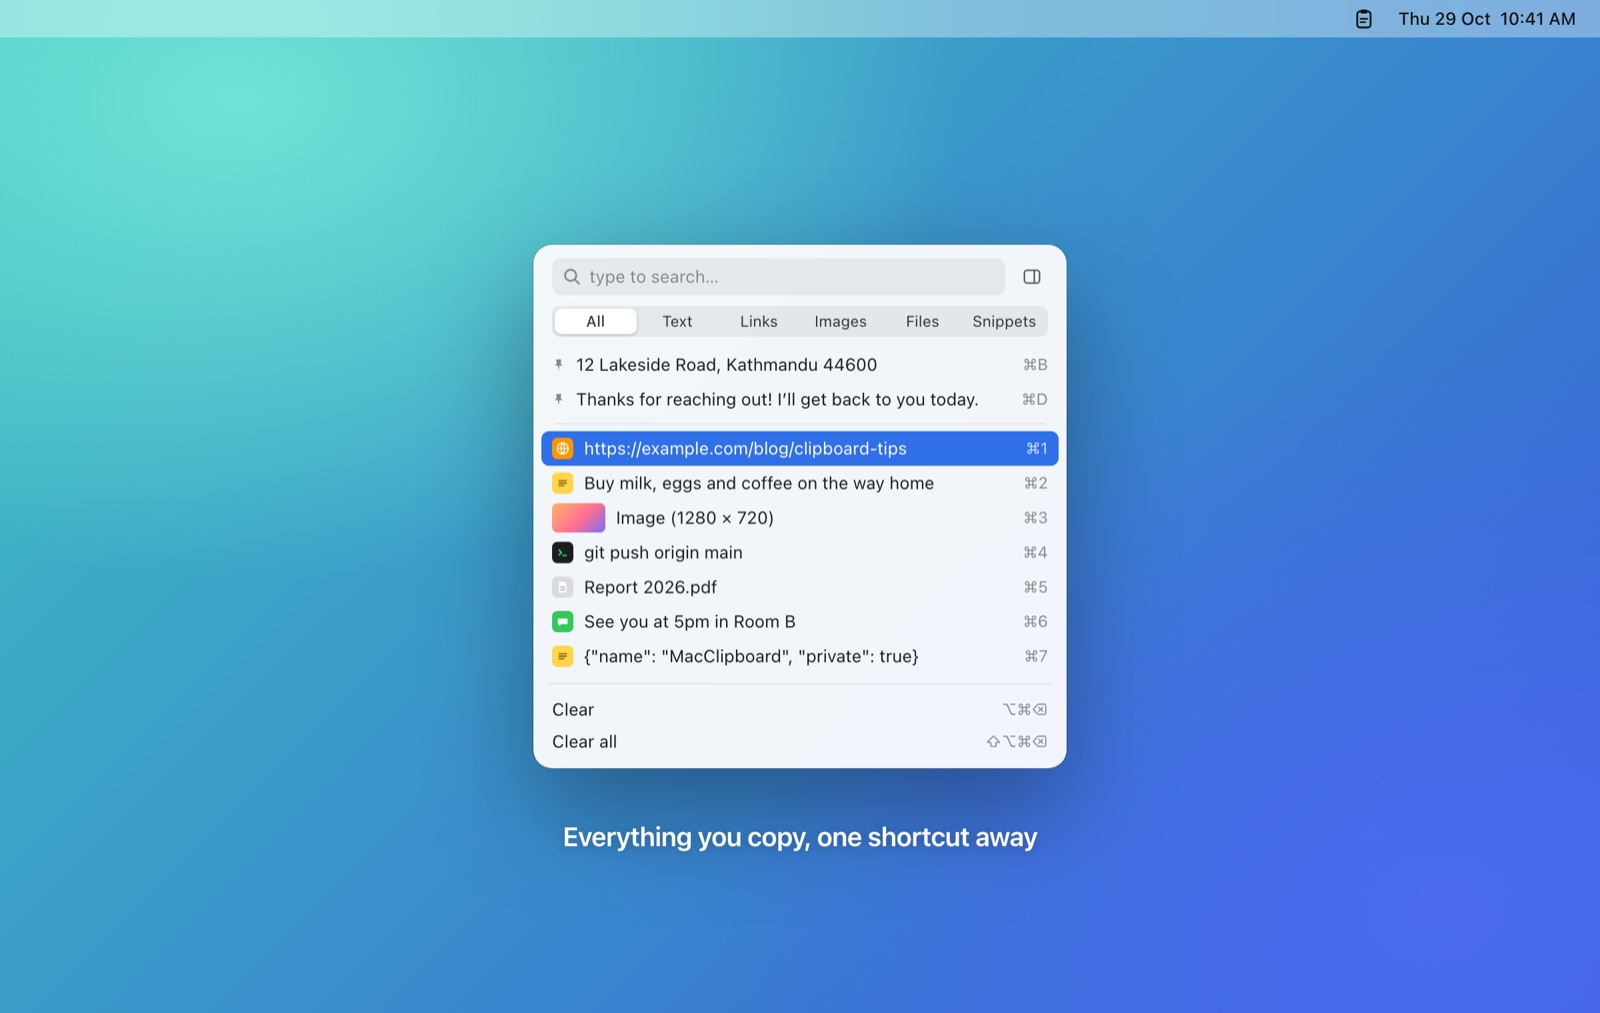
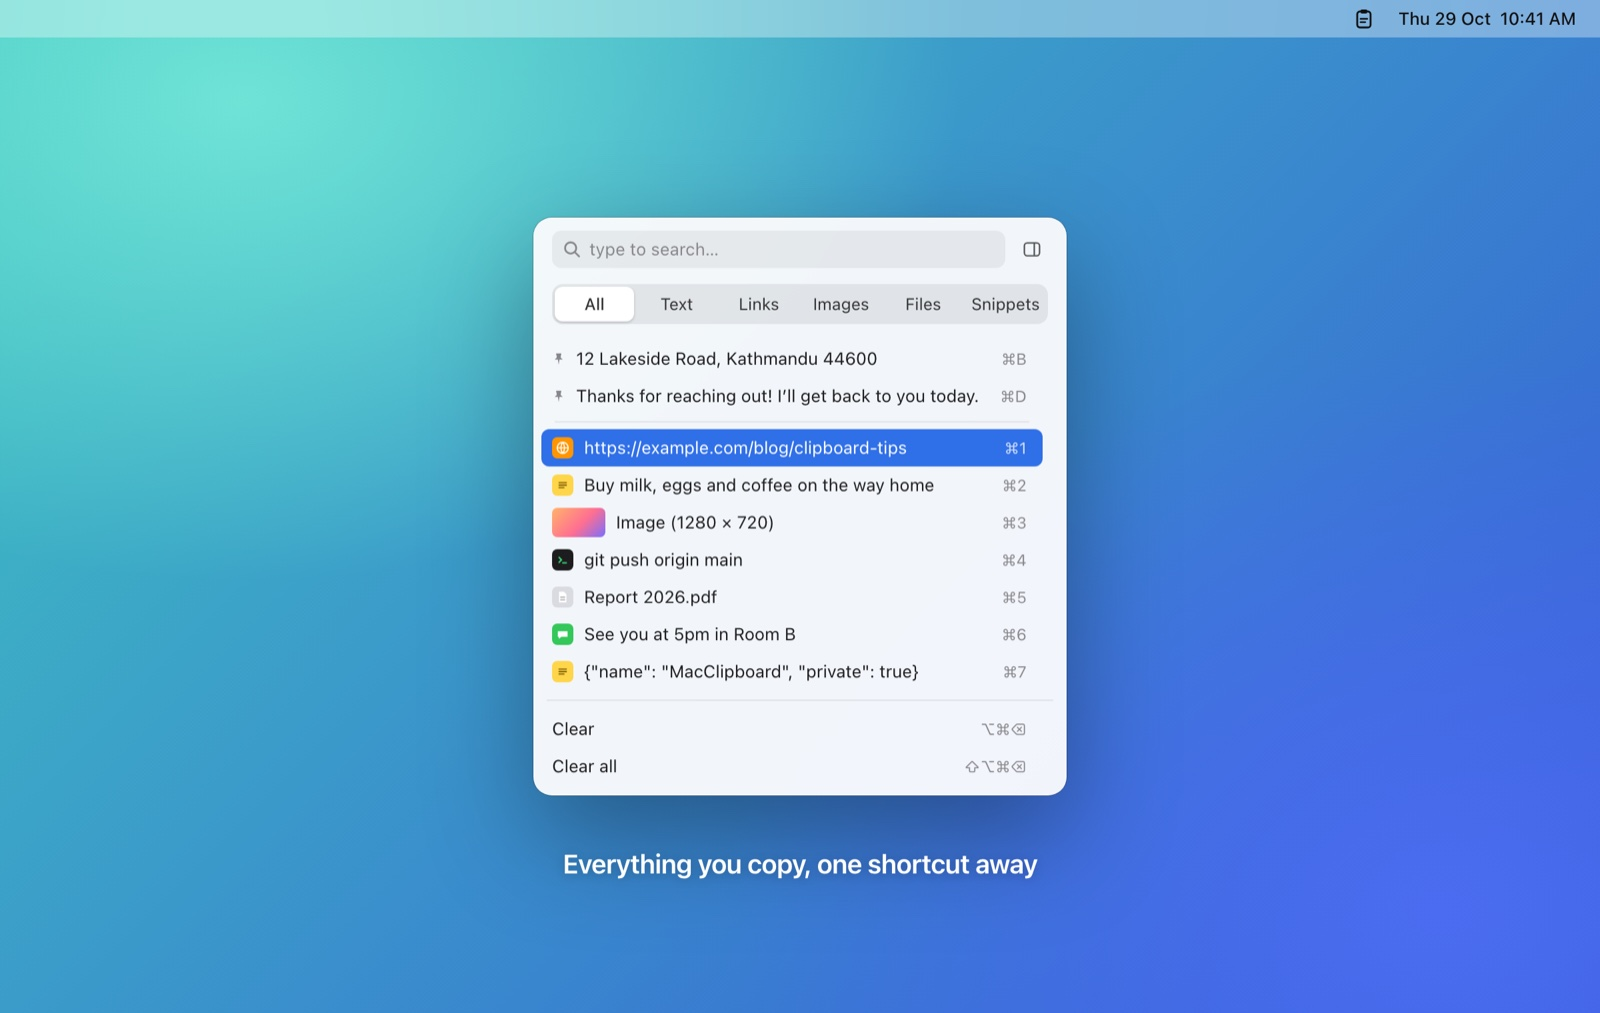
Roomier rows and tabs, shorter popup, keep rows clear of the scroll bar
Rows are taller with more side spacing, the filter tabs are larger and always fit the
popup width, rows stop before the scroll bar, and the popup is at most 520 points tall
by default.

Changed region(s): [[0.3125, 0.2142, 0.6875, 0.8875]]

diff --git a/scripts/screenshots/mockups.html b/scripts/screenshots/mockups.html
@@ -60,15 +60,15 @@
   .field .typed { color: var(--text); }
   .tb { width: 24px; height: 24px; display: grid; place-items: center; color: #555; }
   .segmented {
-    margin: 8px 14px 6px; display: grid; grid-template-columns: repeat(6, 1fr);
-    background: rgba(0,0,0,0.06); border-radius: 6px; padding: 2px; font-size: 11.5px;
+    margin: 12px 14px 10px; display: grid; grid-template-columns: repeat(6, 1fr); gap: 2px;
+    background: rgba(0,0,0,0.07); border-radius: 8px; padding: 2px; font-size: 12.5px;
   }
-  .segmented span { text-align: center; padding: 2px 0; border-radius: 5px; color: #333; }
+  .segmented span { text-align: center; padding: 5px 0; border-radius: 6px; color: #333; }
   .segmented span.on { background: #fff; box-shadow: 0 1px 2px rgba(0,0,0,0.18); font-weight: 500; }
-  .list { padding: 2px 6px; }
+  .list { padding: 2px 18px 2px 6px; }
   .sep { height: 1px; background: var(--sep); margin: 5px 10px; }
   .row {
-    display: flex; align-items: center; gap: 8px; height: 26px; padding: 0 8px; border-radius: 6px;
+    display: flex; align-items: center; gap: 8px; height: 28px; padding: 0 12px 0 8px; border-radius: 6px;
   }
   .row .t { flex: 1; white-space: nowrap; overflow: hidden; text-overflow: ellipsis; }
   .row .k { color: var(--muted); font-size: 12px; }
@@ -81,7 +81,7 @@
     background: linear-gradient(135deg, #ffb36b, #ff6f91 55%, #7a6cff); }
   .pin { width: 10px; height: 10px; color: var(--muted); flex: none; }
   .row.sel .pin { color: #fff; }
-  .footer .row { height: 24px; }
+  .footer .row { height: 28px; }
 
   /* Context menu */
   .menu {
@@ -207,13 +207,13 @@
       <div class="row"><span class="t">Clear all</span><span class="k">⇧⌥⌘⌫</span></div>
     </div>
   </div>
-  <div class="menu" style="left:250px; top:96px">
+  <div class="menu" style="left:250px; top:110px">
     <div class="mi on">Paste as <svg class="chev"><use href="#chev"/></svg></div>
     <div class="ms"></div>
     <div class="mi">Pin</div>
     <div class="mi red">Delete</div>
   </div>
-  <div class="menu" style="left:465px; top:91px">
+  <div class="menu" style="left:465px; top:105px">
     <div class="mi">UPPERCASE</div>
     <div class="mi">lowercase</div>
     <div class="mi">Title Case</div>

diff --git a/Maccy/Views/HeaderView.swift b/Maccy/Views/HeaderView.swift
@@ -42,15 +42,9 @@ struct HeaderView: View {
         .layoutPriority(1)
       }
 
-      Picker("", selection: $appState.history.typeFilter) {
-        ForEach(HistoryFilter.allCases) { filter in
-          Text(filter.title).tag(filter)
-        }
-      }
-      .pickerStyle(.segmented)
-      .labelsHidden()
-      .controlSize(.small)
-      .padding(.horizontal, Popup.horizontalPadding)
+      FilterTabs(selection: $appState.history.typeFilter)
+        .padding(.horizontal, Popup.horizontalPadding)
+        .padding(.vertical, 4)
       .opacity(appState.searchVisible ? 1 : 0)
       .accessibilityHidden(!appState.searchVisible)
     }
@@ -60,5 +54,37 @@ struct HeaderView: View {
     .background(.clear)
     .frame(maxHeight: !appState.searchVisible ? 0 : nil, alignment: .top)
     .readHeight(appState, into: \.popup.headerHeight)
+  }
+}
+
+// Tall filter tabs that share the popup's width, so they never make the popup wider.
+private struct FilterTabs: View {
+  @Binding var selection: HistoryFilter
+
+  var body: some View {
+    HStack(spacing: 2) {
+      ForEach(HistoryFilter.allCases) { filter in
+        let isSelected = filter == selection
+        Button {
+          selection = filter
+        } label: {
+          Text(filter.title)
+            .font(.callout.weight(isSelected ? .medium : .regular))
+            .lineLimit(1)
+            .minimumScaleFactor(0.75)
+            .frame(maxWidth: .infinity, minHeight: 24)
+            .contentShape(Rectangle())
+            .background(
+              RoundedRectangle(cornerRadius: 6)
+                .fill(isSelected ? Color(nsColor: .controlBackgroundColor) : .clear)
+                .shadow(color: .black.opacity(isSelected ? 0.15 : 0), radius: 1, y: 0.5)
+            )
+        }
+        .buttonStyle(.plain)
+        .accessibilityAddTraits(isSelected ? .isSelected : [])
+      }
+    }
+    .padding(2)
+    .background(Color.primary.opacity(0.07), in: RoundedRectangle(cornerRadius: 8))
   }
 }

diff --git a/Maccy/Extensions/Defaults.Keys+Names.swift b/Maccy/Extensions/Defaults.Keys+Names.swift
@@ -73,7 +73,7 @@ nonisolated extension Defaults.Keys {
     "sensitiveContent", default: .removeAfterDelay, suite: preferencesSuite
   )
   static let suppressClearAlert = Key<Bool>("suppressClearAlert", default: false, suite: preferencesSuite)
-  static let windowSize = Key<NSSize>("windowSize", default: NSSize(width: 450, height: 800), suite: preferencesSuite)
+  static let windowSize = Key<NSSize>("windowSize", default: NSSize(width: 450, height: 520), suite: preferencesSuite)
   static let windowPosition = Key<NSPoint>("windowPosition", default: NSPoint(x: 0.5, y: 0.8), suite: preferencesSuite)
   static let showApplicationIcons = Key<Bool>("showApplicationIcons", default: false, suite: preferencesSuite)
   static let showHexColorSwatch = Key<Bool>("showHexColorSwatch", default: true, suite: preferencesSuite)

diff --git a/Maccy/Views/HistoryListView.swift b/Maccy/Views/HistoryListView.swift
@@ -86,6 +86,7 @@ struct HistoryListView: View {
 
       if topPinsVisible {
         PinsView(items: pinnedItems)
+          .padding(.trailing, Popup.scrollerGutter)
       }
 
       if topSeparatorVisible {
@@ -105,6 +106,7 @@ struct HistoryListView: View {
         }
         .padding(.top, scrollTopPadding)
         .padding(.bottom, scrollBottomPadding)
+        .padding(.trailing, Popup.scrollerGutter)
         .task(id: appState.navigator.scrollTarget) {
           guard appState.navigator.scrollTarget != nil else { return }
 
@@ -158,6 +160,7 @@ struct HistoryListView: View {
 
       if bottomPinsVisible {
         PinsView(items: pinnedItems)
+          .padding(.trailing, Popup.scrollerGutter)
       }
     }
     .padding(.bottom, bottomPinsVisible ? bottomPadding : 0)

diff --git a/Maccy/Views/ListItemView.swift b/Maccy/Views/ListItemView.swift
@@ -61,12 +61,12 @@ struct ListItemView<Title: View, ID: Hashable>: View {
           AppImageView(appImage: appIcon, size: NSSize(width: 15, height: 15))
           Spacer(minLength: 0)
         }
-        .padding(.leading, 4)
+        .padding(.leading, 8)
         .padding(.vertical, 5)
       }
 
       Spacer()
-        .frame(width: showIcons ? 5 : 10)
+        .frame(width: showIcons ? 8 : 12)
 
       if let accessoryImage {
         Image(nsImage: accessoryImage)
@@ -116,7 +116,7 @@ struct ListItemView<Title: View, ID: Hashable>: View {
           }
         }
       }
-      .padding(.trailing, 10)
+      .padding(.trailing, 12)
     }
     .frame(minHeight: Popup.itemHeight)
     .id(id)

diff --git a/Maccy/Observables/Popup.swift b/Maccy/Observables/Popup.swift
@@ -21,6 +21,8 @@ class Popup {
   static let horizontalSeparatorPadding = 6.0
   static let verticalPadding: CGFloat = 5
   static let horizontalPadding: CGFloat = 5
+  // Space on the right of the rows for the scroll bar, so it never covers them.
+  static let scrollerGutter: CGFloat = 12
   static let minimumPreviewHeight: CGFloat = 150
 
   // Radius used for items inset by the padding. Ensures they visually have the same curvature
@@ -32,9 +34,9 @@ class Popup {
   }
 
   static let itemHeight: CGFloat = if #available(macOS 26.0, *) {
-    24
+    28
   } else {
-    22
+    26
   }
 
   var needsResize = false

diff --git a/Maccy/AppDelegate.swift b/Maccy/AppDelegate.swift
@@ -189,6 +189,13 @@ class AppDelegate: NSObject, NSApplicationDelegate {
     ensureMigration(key: "2026-10-29-encrypt-history") {
       _ = try? Storage.shared.encryptPlaintextRows()
     }
+
+    // The popup used to grow up to 800 points tall; start existing installs at the new shorter size.
+    ensureMigration(key: "2026-10-29-shorter-popup") {
+      if Defaults[.windowSize].height > 520 {
+        Defaults[.windowSize].height = 520
+      }
+    }
   }
 
   @objc

diff --git a/Maccy/Views/FooterView.swift b/Maccy/Views/FooterView.swift
@@ -54,6 +54,7 @@ struct FooterView: View {
         FooterItemView(item: item)
       }
     }
+    .padding(.trailing, Popup.scrollerGutter)
     .invisible(!showFooter)
     .frame(maxHeight: showFooter ? nil : 0)
     .padding(.bottom, showFooter ? Popup.verticalPadding : 0)
